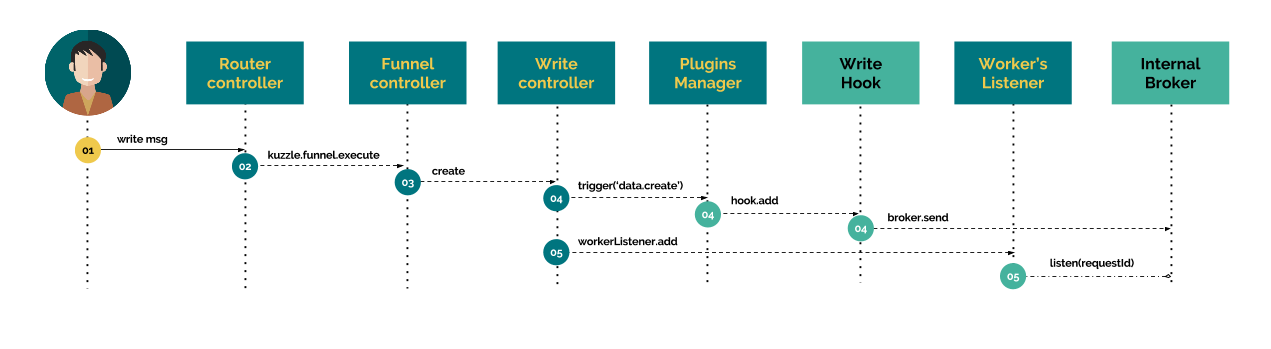
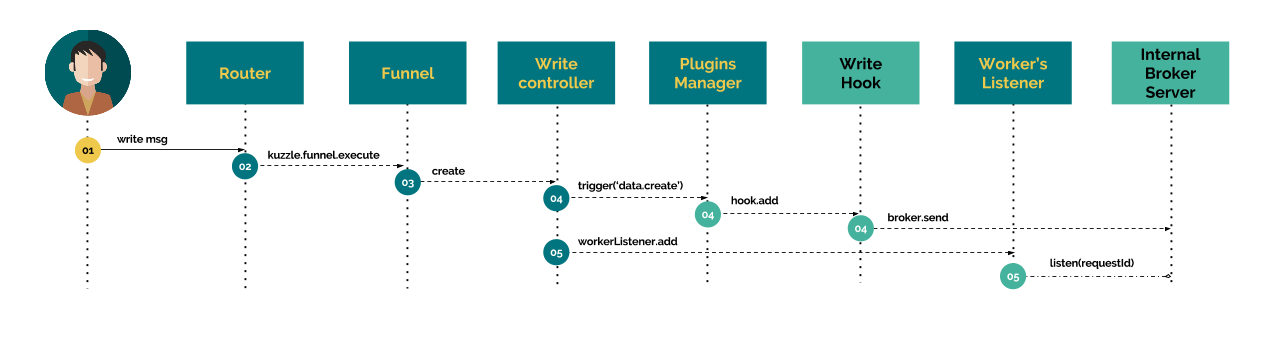
Update technical architecture and request scenarios' schemas with latest changes.

Changed region(s): [[0.8899, 0.1433, 0.9512, 0.2865], [0.2762, 0.1719, 0.3682, 0.2579], [0.1534, 0.1719, 0.2455, 0.2579]]

diff --git a/source/includes/core_documentation/_02-request-scenarios.md b/source/includes/core_documentation/_02-request-scenarios.md
@@ -18,9 +18,11 @@ The following diagram shows how request data is exchanged between the client app
 \#1. The REST client asks for a content using a HTTP GET Request
 
 For instance, to retrieve the document '739c26bc-7a09-469a-803d-623c4045b0cb' in the collection 'users':
-```GET http://kuzzle:7511/api/users/739c26bc-7a09-469a-803d-623c4045b0cb```
+```
+GET http://kuzzle:7511/api/users/739c26bc-7a09-469a-803d-623c4045b0cb
+```
 
-\#2. The HTTP router handles the input request and forward the message to the ```Funnel Controller```.
+\#2. The proxy forwards the input request throughs the ```HTTP Entry point``` to the ```Router```, who handles it and forwards the formatted message to the ```Funnel```.
 
 Sample message:
 
@@ -127,7 +129,7 @@ The following diagram shows how request data is exchanged between the client app
 
 ![read_scenario_websocket_details](./images/request-scenarios/read-websocket/details.png)
 
-\#1. The client application opens a Websocket connection and emit a "read" event containing the request
+\#1. The client application opens a Websocket connection to ```Kuzzle Proxy``` and emit a "read" event containing the request
 
 (see details in [API Documentation](http://kuzzleio.github.io/kuzzle-api-documentation/#socket-io))
 
@@ -151,8 +153,11 @@ Sample JS code :
   });
 ```
 
+\#2. The SocketIO plugin handles the input request and forwards the message to the ```Backend Broker```
 
-\#2. The SocketIO plugin handles the input request and forward the message to the ```Funnel Controller```
+\#3. The Backend Broker, sends the message to the server's ```Proxy Broker``` through an internal websocket connexion.
+
+\#4. The Proxy Broker forwards the input request throughs the ```Proxy Entry point``` to the ```Router```, who handles it and forwards the formatted message to the ```Funnel```.
 
 Sample message:
 
@@ -165,11 +170,11 @@ Sample message:
 }
 ```
 
-\#3. The ```Funnel Controller``` validates the message and forward the request to the ```Read Controller```
+\#5. The ```Funnel``` validates the message and forward the request to the ```Read Controller```
 
-\#4. The ```Read Controller``` calls the ```readEngine service```
+\#6. The ```Read Controller``` calls the ```readEngine service```
 
-\#5. The ```readEngine service``` performs an HTTP REST request to get the data from the data storage
+\#7. The ```readEngine service``` performs an HTTP REST request to get the data from the data storage
 
 Sample content retrieval from Elasticsearch:
 
@@ -194,7 +199,7 @@ Sample content retrieval from Elasticsearch:
 }
 ```
 
-\#6. Promises functions are resolved to forward the response message back to the SocketIO plugin
+\#8. Promises functions are resolved to forward the response message back to the Proxy Broker.
 
 Sample content resolved:
 
@@ -220,9 +225,10 @@ Sample content resolved:
   }
 }
 ```
-\#7. The SocketIO plugin emits a ```<requestId>``` event to the websocket client
 
+\#9. The Proxy Broker sends the response to the proxy's ```Backend Broker``` through the websocket connexion.
 
+\#10. The Proxy calls the plugin's callback, who emits a ```<requestId>``` event to the websocket client
 
 Sample response content:
 
@@ -250,6 +256,7 @@ Sample response content:
   }
 }
 ```
+
 
 ### Subscribing and writing content to Kuzzle
 
@@ -280,9 +287,9 @@ Detailed workflow:
 
 ![persistence_scenario_details1](./images/request-scenarios/persistence/details1.png)
 
-\#1. A client sends new content to Kuzzle, either with an HTTP request, through a websocket connection or using a MQ client (see [Reading scenarios](#reading-content-from-kuzzle))
+\#1. A client sends new content to Kuzzle, either with an HTTP request, through a websocket connection or using a custom plugin protocol (see [Reading scenarios](#reading-content-from-kuzzle))
 
-\#2. The router handles the input request and forward the message to the ```Funnel Controller```
+\#2. The router handles the input request and forward the message to the ```Funnel```
 
 ```json
 {
@@ -304,7 +311,7 @@ Detailed workflow:
 }
 ```
 
-\#3. The ```Funnel Controller``` validates the message and forward the request to the ```Write Controller```
+\#3. The ```Funnel``` validates the message and forward the request to the ```Write Controller```
 
 \#4. The ```Write Controller``` triggers the ```Plugins Manager``` with a "data:create" event.<br/>
 The ```Plugins Manager``` calls all pipes and hooks configured by the active plugins (see [Plugin's documentation](#plugins)), and finally triggers the "add" event of the ```Write Hook```.<br/>
@@ -346,7 +353,7 @@ Detailed workflow:
 
 \#11. The ```Worker Listener``` that the ```Write Controller``` registered in step \#5. receive a notification from the ```Internal Broker```...
 
-\#12. ... and forwards it to the ```Write Controller```, who then forwards it to the ```Funnel Controller```, who in turn forwards it to ```Router Controller```...
+\#12. ... and forwards it to the ```Write Controller```, who then forwards it to the ```Funnel```, who in turn forwards it to ```Router Controller```...
 
 \#13. ... which sends a feedback to the client.
 
@@ -396,7 +403,7 @@ Sample Javascript code, using Websocket:
 ```
 
 
-\#2. The ```Router Controller``` interprets the input request and transfer the subscription message to the ```Funnel Controller```.
+\#2. The ```Router``` interprets the input request and transfer the subscription message to the ```Funnel```.
 
 Sample message:
 ```json
@@ -411,7 +418,7 @@ Sample message:
 }
 ```
 
-\#3. The ```Funnel Controller``` validates the message and transfer it to the ```Subscribe Controller```.
+\#3. The ```Funnel``` validates the message and transfer it to the ```Subscribe Controller```.
 
 \#4. The ```Subscribe Controller``` calls the ```HotelClerk``` internal component to create the subscription.
 

diff --git a/source/includes/core_documentation/_01-architecture.md b/source/includes/core_documentation/_01-architecture.md
@@ -21,24 +21,25 @@ Focus on the above "Kuzzle kernel":
 
 #### Main core components
 
-* **Router Controller**: implements the 3 API routers, normalizes the input message and sends them to the Funnel Controller
-* **Funnel Controller**: analyses the input message and calls the appropriate controller
-* **Admin Controller**, **Auth Controller**, **Bulk Controller**, **Write Controller**, **Subscribe Controller**, **Read Controller**: handles the input message (see [API reference](/api-reference))
-* **Internal Components**: Any component used internally by controllers and any other internal component to interact with services
+* **Proxy and entry points**: proxifies the communication beetween the client and Kuzzle (see [Connecting to kuzzle](/api-reference/#connecting-to-kuzzle)), and forward the input message to the Router.
+* **Router**: implements the API routers, normalizes the input message and sends them to the Funnel
+* **Funnel**: analyses the input message and calls the appropriate controller
+* **Controllers**: handles the input message (see [API reference](/api-reference))
+* **Internal Components**: Any component used internally by controllers
+* **Service Components**: Any component used to interact with services (see [below](#gt-services))
 
 
 ### > Hooks
 
 Hooks allow to attach actions to Kuzzle events.
 
-For example, Admin, Bulk and Writer controllers emit a "data:create" event to handle some writing actions through the storage engine.
-This event will trigger the execution of the *add* method and of the *write* hook, which will send the received message to the internal broker.
+For example, Admin, Bulk and Writer controllers emit a `data:beforeCreate` event to handle some writing actions through the storage engine.
+This event will trigger the execution of the *emit* method and of the *write* hook, which will send the received message to the internal broker.
 
 Then it is possible to implement custom hooks to trigger any event emitted by Kuzzle.
 
-The list of available events and their default attached actions can be found in the [config/hooks.js](https://github.com/kuzzleio/kuzzle/blob/master/lib/config/hooks.js) file.
+See also [The list of available events](#kuzzle-events-list).
 
-As an example, when the "data:afterCreate" event is emitted by kuzzle, it will trigger the execution of the *add* method of the *write* hook, which will send the received message to the broker.
 
 ##### Contributing
 
@@ -59,16 +60,17 @@ In Kuzzle, a Service module is the implementation of the interface to different 
 
 Kuzzle currently implements the following Services:
 
-* [rabbit.js](https://github.com/kuzzleio/kuzzle/blob/develop/lib/services/rabbit.js): interface to [RabbitMQ](https://www.rabbitmq.com/)
-* [elasticsearch.js](https://github.com/kuzzleio/kuzzle/blob/develop/lib/services/elasticsearch.js): interface to [Elasticsearch](https://www.elastic.co/products/elasticsearch), used for persistent data storage.
-* [redis.js](https://github.com/kuzzleio/kuzzle/blob/develop/lib/services/redis.js): interface to the [redis](http://redis.io) cache server.
-* [logger.js](https://github.com/kuzzleio/kuzzle/blob/develop/lib/services/logger.js): interface to the [Logstash](https://www.elastic.co/products/logstash) server.
-* [ipc.js](https://github.com/kuzzleio/kuzzle/blob/develop/lib/services/ipc.js): IPC implementation of the internal message broker
-* [index.js](https://github.com/kuzzleio/kuzzle/blob/develop/lib/services/index.js): module entry point. Used to initialize all implemented services.
+* [rabbit.js](https://github.com/kuzzleio/kuzzle/blob/master/lib/services/rabbit.js): interface to [RabbitMQ](https://www.rabbitmq.com/) _(NB: will be soon deprecated)_
+* [elasticsearch.js](https://github.com/kuzzleio/kuzzle/blob/master/lib/services/elasticsearch.js): interface to [Elasticsearch](https://www.elastic.co/products/elasticsearch), used for persistent data storage.
+* [redis.js](https://github.com/kuzzleio/kuzzle/blob/master/lib/services/redis.js): interface to the [redis](http://redis.io) cache server.
+* [proxyBroker.js](https://github.com/kuzzleio/kuzzle/blob/master/lib/services/proxyBroker.js): interface with the proxy.
+* [Broker Client and Server](https://github.com/kuzzleio/kuzzle/blob/master/lib/services/broker): implementation of the internal message broker
+* [internalEngine.js](https://github.com/kuzzleio/kuzzle/blob/master/lib/services/internalEngine.js): light interface with the internal index (containing kuzzle's configuration) in Elastic Search.
 
-A Service can be added to different engines. For example, Elasticsearch is used by both the writeEngine and the readEngine (see [index.js](./index.js)).
 
-#### Workers
+A Service can be added to different engines. For example, Elasticsearch is used by both the writeEngine and the readEngine (see [lib/config/services.js](https://github.com/kuzzleio/kuzzle/blob/master/lib/config/services.js)).
+
+### > Workers
 
 A worker is an independant component, detachable from a Kuzzle server container. It can be run in another container or even on another machine.
 
